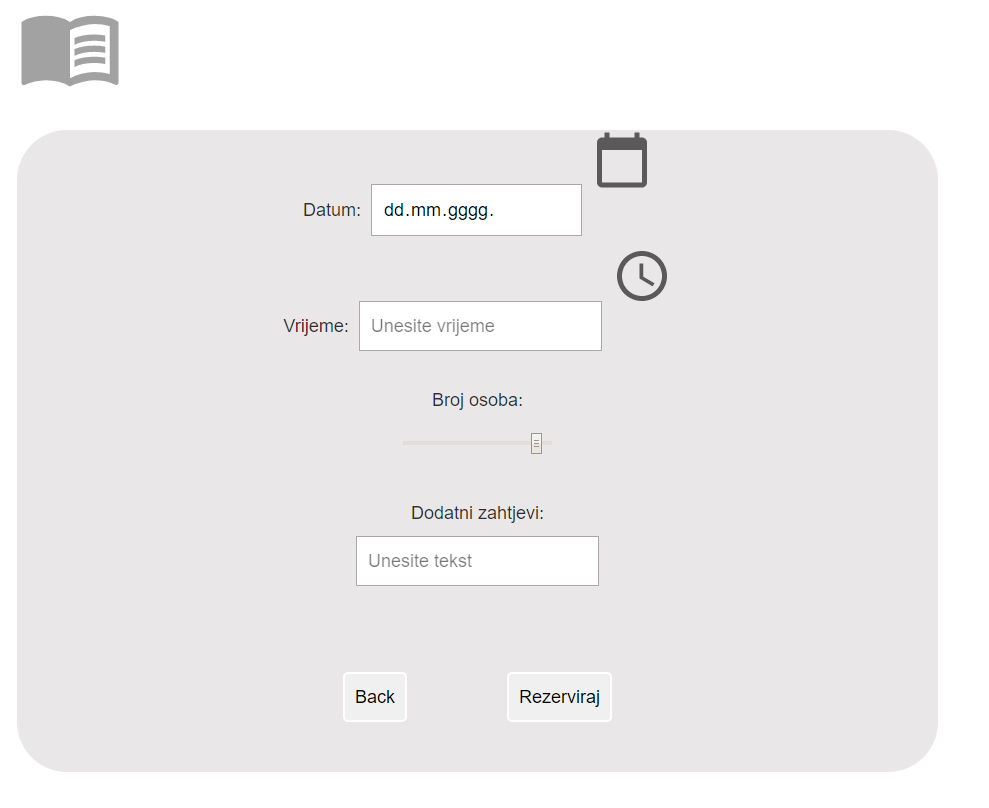
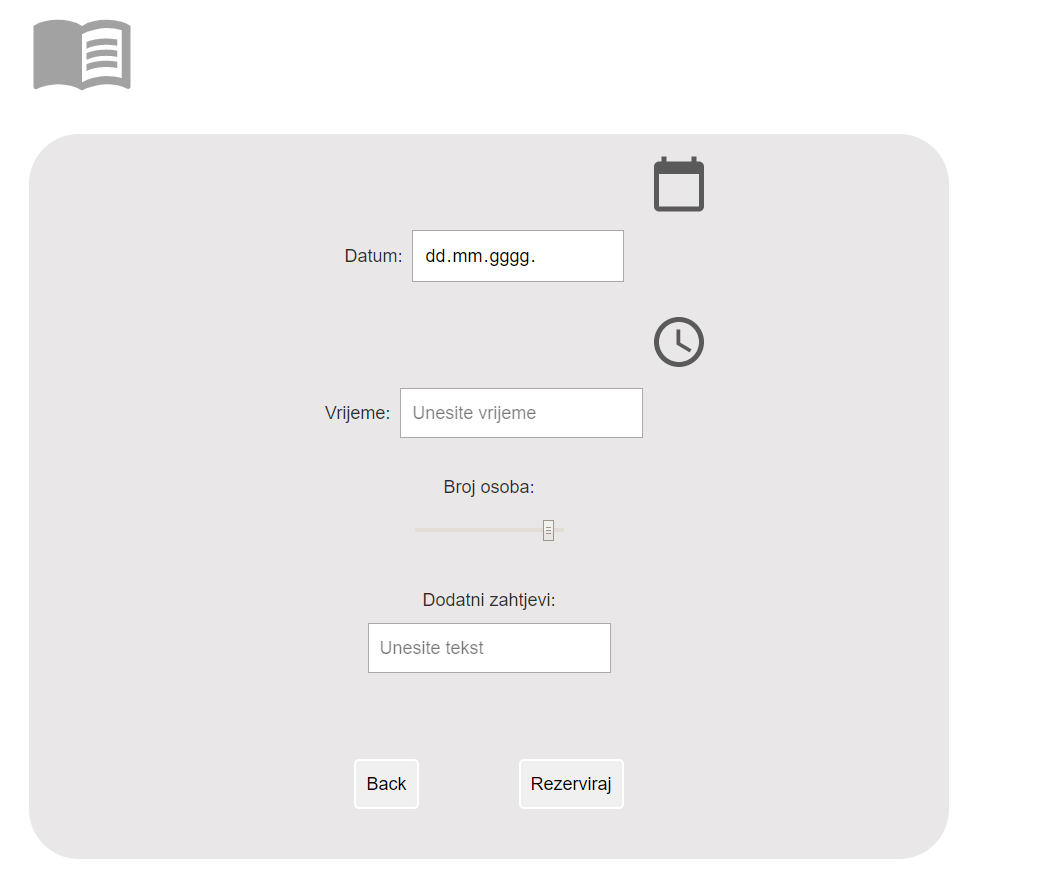
somecss

diff --git a/restApp/src/components/layout.css b/restApp/src/components/layout.css
@@ -210,6 +210,7 @@ body {
   font-feature-settings: "kern", "liga", "clig", "calt";
 }
 img {
+  position: relative;
   max-width: 100%;
   margin-left: 0;
   margin-right: 0;
@@ -641,9 +642,8 @@ pre tt:after {
 }
 
 .OfferItem {
-  border: 2px solid black;
+  
   width: 300px;
-  height: 400px;
   border-radius: 10px;
   margin: 15px;
   -webkit-box-shadow: 3px 3px 10px 3px rgba(143,140,143,1);
@@ -652,21 +652,26 @@ pre tt:after {
 }
 
 .OfferItem img {
+  position: relative;
+  top:20px;
   border-radius: 10px;
 }
 
 .OfferItem h3 {
-  background-color: rgb(204, 203, 203);
 }
 
 .OfferItem .item-info {
+
   padding: 10px;
+  position: inherit;
+  bottom:50px;
 }
 
 .Ponuda .display {
-  display: flex;
+  display: grid;
+  grid-template-columns: 1fr 1fr;
+  grid-gap: 50px 50px;
   justify-content: space-between;
-  flex-wrap: wrap;
 }
 
 .Login {
@@ -714,4 +719,13 @@ pre tt:after {
 
 #selected {
   background-color: rgb(24, 143, 240);
+}
+
+.img1{
+  display: flex;
+  flex-direction: column;
+  justify-content: baseline;
+  position: relative;
+  left: 620px;
+  top: 20px;
 }

diff --git a/restApp/src/pages/rezervacije.js b/restApp/src/pages/rezervacije.js
@@ -11,11 +11,11 @@ export default function rezervacije() {
             <div className='Rezervacije'>
                 <img src={bookIcon} />
                 <form>
+                    <img src={calendarIcon} class = 'img1' />
                     <span>Datum:</span><input type='date' />
-                    <img src={calendarIcon} />
                     <br />
+                    <img src={watchIcon} class = 'img1'/>
                     <span>Vrijeme:</span><input type='text' placeholder='Unesite vrijeme' />
-                    <img src={watchIcon} />
                     <br />
                     <br />
                     <span>Broj osoba:</span>

diff --git a/restApp/src/pages/index.css b/restApp/src/pages/index.css
@@ -1,4 +1,6 @@
 .indexPageContent {
+    position: absolute;
+    top: 187px;
     border: 4px solid black;
     height: 500px;
     border-radius: 30px;
@@ -64,3 +66,4 @@ p2{
     width: 100%;
     transition: width .3s;
 }
+

diff --git a/README.md b/README.md
@@ -380,7 +380,7 @@ Tako će korisnik s lakoćom znati da ova četiri grupirana elementa predstavlja
     <br><br>
     <em>Primjer proximity-a</em>
 </p>
-Ovaj princip ispunjen je i kod početne stranice gdje su dvije glavne funkcionalnosti aplikacije (_Naruči i Rezerviraj_) jednake važnosti te su stoga postavljeni jedan do drugoga.
+Ovaj princip ispunjen je i kod početne stranice gdje su dvije glavne funkcionalnosti aplikacije ("Naruči" i "Rezerviraj") jednake važnosti te su stoga postavljeni jedan do drugoga.
 
 ## Zaključak
 
@@ -388,3 +388,5 @@ Tijekom izrade prototipa i web aplikacije lako je bilo primijetiti kako planiran
 Bez izrade _low_ i _high fidelity_ prototipa, razvoj do krajnjeg produkta bio bi značajno otežan. Osim što navedeni prototipovi omogućavaju dobar uvid u razvoj i potrebe sustava, također olakšavaju izmjenu i evaluaciju sustava. Osim toga, korištenjem i poštivanjem pravila heuristike i C.R.A.P. principa osiguravamo dobar dizajn i smanjujemo moguće poteškoće prilikom korištenja aplikacije.
 Iako mnogi ljudi prirodno nemaju osjećaj za dobar dizajn, koristeći navedena pravila i
 principe svatko može napraviti zadovoljavajući dizajn koji će biti intuitivan i jednostavan za korištenje.
+
+[![Netlify Status](https://api.netlify.com/api/v1/badges/edfece88-bffc-4e68-8837-18676e96af08/deploy-status)](https://reverent-lumiere-282a0f.netlify.com/)
